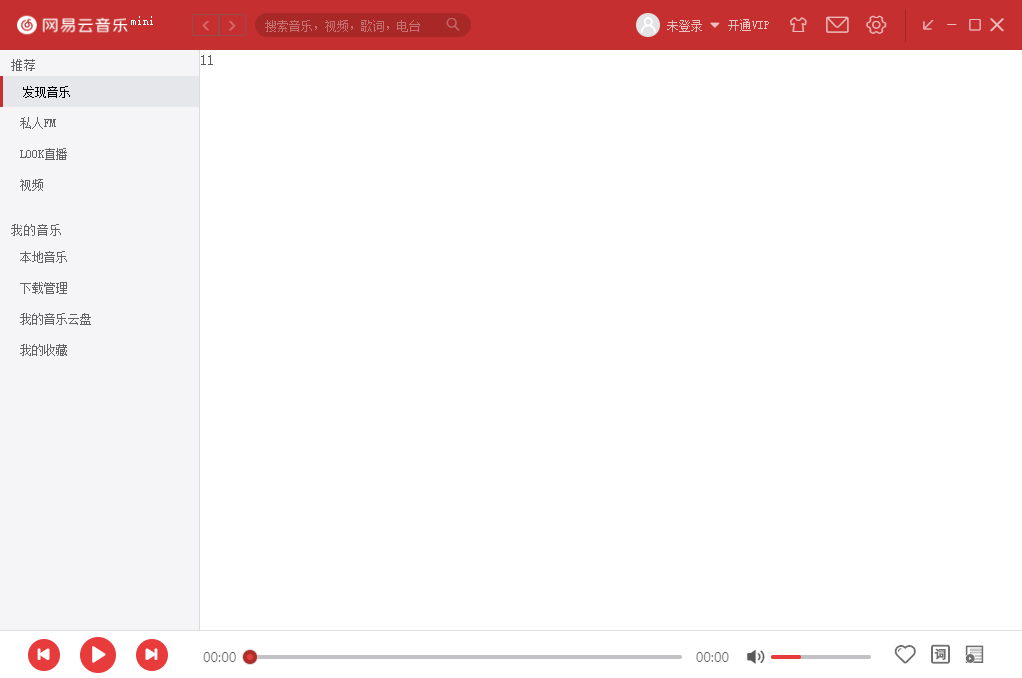
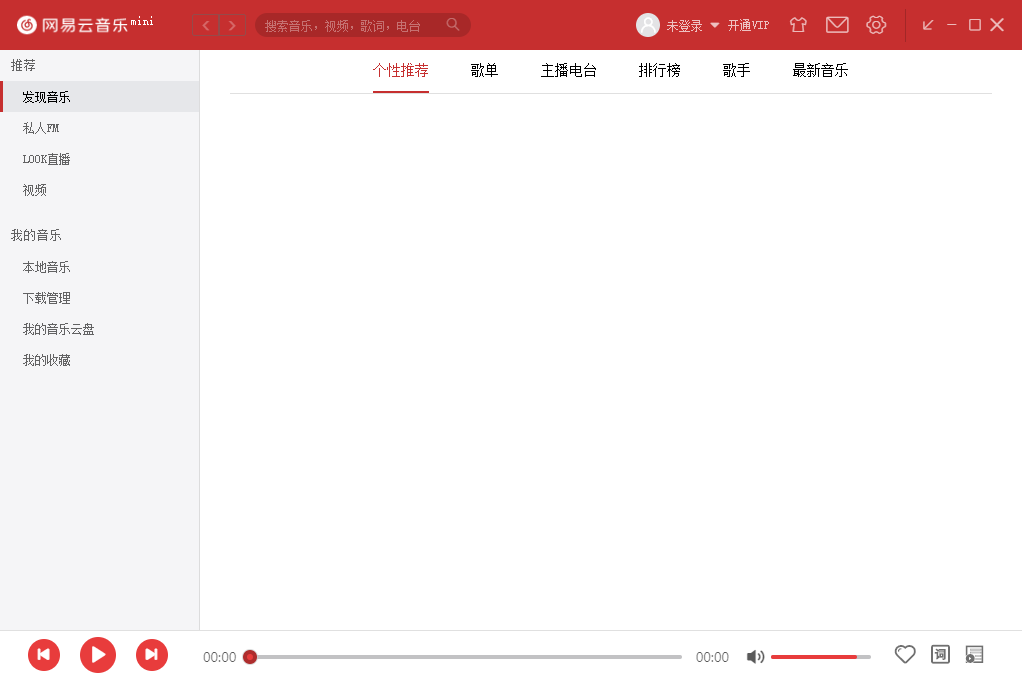
路由添加

diff --git a/src/utils/utils.ts b/src/utils/utils.ts
@@ -4,7 +4,7 @@ import electron from './electron'
  * 拖拽函数
  * @param el {HTMLElement | string}
  */
-export function makeDraggable(el: HTMLElement | string) {
+export function __Dragable(el: HTMLElement | string): void {
   if (typeof el === 'string') {
     el = document.querySelector(el) as HTMLElement
   }
@@ -13,35 +13,39 @@ export function makeDraggable(el: HTMLElement | string) {
     if (drag.supported) {
       drag(el)
     } else {
-      makeDraggableFallback(el)
+      doDraggableFallback(el)
     }
   } catch (ex) {
-    makeDraggableFallback(el)
+    doDraggableFallback(el)
   }
-}
 
-function makeDraggableFallback(el: HTMLElement) {
-  // 方案二
-  let dragging = false
-  let mouseX = 0
-  let mouseY = 0
-  el.addEventListener('mousedown', e => {
-    dragging = true
-    const { pageX, pageY } = e
-    mouseX = pageX
-    mouseY = pageY
-  })
-  window.addEventListener('mouseup', () => {
-    dragging = false
-  })
-  window.addEventListener('mousemove', (e: MouseEvent) => {
-    if (dragging) {
+  /**
+   * 拖拽辅助函数
+   * @param el {HTMLElement} HTML节点
+   */
+  function doDraggableFallback(el: HTMLElement): void {
+    // 方案二
+    let dragging = false
+    let mouseX = 0
+    let mouseY = 0
+    el.addEventListener('mousedown', e => {
+      dragging = true
       const { pageX, pageY } = e
-      const win = electron.remote.getCurrentWindow()
-      const pos = win.getPosition()
-      pos[0] = pos[0] + pageX - mouseX
-      pos[1] = pos[1] + pageY - mouseY
-      win.setPosition(pos[0], pos[1], true)
-    }
-  })
+      mouseX = pageX
+      mouseY = pageY
+    })
+    window.addEventListener('mouseup', () => {
+      dragging = false
+    })
+    window.addEventListener('mousemove', (e: MouseEvent) => {
+      if (dragging) {
+        const { pageX, pageY } = e
+        const win = electron.remote.getCurrentWindow()
+        const pos = win.getPosition()
+        pos[0] = pos[0] + pageX - mouseX
+        pos[1] = pos[1] + pageY - mouseY
+        win.setPosition(pos[0], pos[1], true)
+      }
+    })
+  }
 }

diff --git a/src/layouts/main.tsx b/src/layouts/main.tsx
@@ -1,12 +1,30 @@
 import React from 'react'
 import Aside from './aside'
+import { HashRouter, Route, Switch, Redirect } from 'react-router-dom'
+import routes from '../router'
 
-const Main: React.FC<any> = (props: any) => {
+const Main: React.FC<any> = props => {
   return (
     <div className="nets-main">
       <Aside></Aside>
-      <div className="nets-view">11</div>
+      <div className="nets-view">
+        <HashRouter>
+          <Switch>
+            {routes.map(row => {
+              return (
+                <Route
+                  key={row.path}
+                  path={row.path}
+                  component={row.component}
+                ></Route>
+              )
+            })}
+            <Redirect from="/" to="/index"></Redirect>
+          </Switch>
+        </HashRouter>
+      </div>
     </div>
   )
 }
+
 export default Main

diff --git a/src/views/nav/nav.tsx b/src/views/nav/nav.tsx
@@ -1,0 +1,20 @@
+import React from 'react'
+import './nav.scss'
+import navList from '../../asserts/static/nav.json'
+import { NavLink } from 'react-router-dom'
+
+const Nav: React.FC<any> = props => {
+  return (
+    <div className="nets-nav">
+      {navList.map((row, index) => {
+        return (
+          <NavLink exact activeClassName="active" key={index} to={row.path}>
+            {row.name}
+          </NavLink>
+        )
+      })}
+    </div>
+  )
+}
+
+export default Nav

diff --git a/src/views/menu/menu.scss b/src/views/menu/menu.scss
@@ -6,10 +6,11 @@
     font-size: 13px;
   }
   .nets-menu-wrapper {
-    margin-bottom: 20px;
+    margin: 5px 0px 20px;
     & > .nets-menu-list {
       cursor: pointer;
       padding: 5px 20px;
+      border-left: 3px solid transparent;
       span {
         font-size: 12px;
       }
@@ -19,7 +20,7 @@
       &.active {
         color: #000;
         background: #e6e7ea;
-        border-left: 3px solid #c62f2f;
+        border-left-color: #c62f2f;
       }
     }
   }

diff --git a/src/views/nav/nav.scss b/src/views/nav/nav.scss
@@ -1,0 +1,22 @@
+.nets-nav {
+  display: flex;
+  align-items: center;
+  -webkit-user-select: none;
+  justify-content: center;
+  height: 44px;
+  margin: 0 30px;
+  border-bottom: 1px solid rgba($color: #ccc, $alpha: 0.6);
+  & a {
+    padding: 10px 0;
+    margin: 0 21px;
+    color: #000;
+    border-bottom: 2px solid transparent;
+    &:hover {
+      color: #c62f2f;
+    }
+    &.active {
+      border-bottom-color: #c62f2f;
+      color: #c62f2f;
+    }
+  }
+}

diff --git a/src/layouts/header.tsx b/src/layouts/header.tsx
@@ -1,5 +1,5 @@
 import React, { useState, useEffect } from 'react'
-import { makeDraggable } from '../utils/utils'
+import { __Dragable } from '../utils/utils'
 import electron from '../utils/electron'
 
 const Header: React.FC<any> = props => {
@@ -29,7 +29,7 @@ const Header: React.FC<any> = props => {
   }
 
   useEffect(() => {
-    makeDraggable('.nets-header')
+    __Dragable('.nets-header')
   }, [])
 
   return (

diff --git a/src/router.ts b/src/router.ts
@@ -1,0 +1,15 @@
+import Loadable from 'react-loadable'
+
+const routes = [
+  {
+    name: 'index',
+    path: '/index',
+    component: Loadable({
+      loader: () =>
+        import(/* webpackChunkName: "Index" */ './views/index/index'),
+      loading: () => null
+    })
+  }
+]
+
+export default routes

diff --git a/src/App.tsx b/src/App.tsx
@@ -5,6 +5,7 @@ import Main from './layouts/main'
 import Footer from './layouts/footer'
 
 const App: React.FC<any> = (props: any) => {
+  console.log(import(/* webpackChunkName: "Index" */ './views/index/index'))
   return (
     <div className="App">
       <Header></Header>

diff --git a/src/layouts/footer.tsx b/src/layouts/footer.tsx
@@ -74,7 +74,6 @@ const Footer: React.FC<any> = props => {
         <p>00:00</p>
         <Slider
           value={process}
-          disabled={process === 0}
           onChange={(val: any) => _onchangeProcess(val)}
           tooltipVisible={false}
         ></Slider>

diff --git a/src/views/index/index.tsx b/src/views/index/index.tsx
@@ -1,0 +1,13 @@
+import React from 'react'
+import Nav from '../nav/nav'
+import './index.scss'
+
+const Index: React.FC<any> = props => {
+  return (
+    <div className="nets-index">
+      <Nav></Nav>
+    </div>
+  )
+}
+
+export default Index

diff --git a/src/components/Loading.tsx b/src/components/Loading.tsx
@@ -1,0 +1,7 @@
+import React from 'react'
+
+const Loading: React.FC<any> = props => {
+  return <div>Loading....</div>
+}
+
+export default Loading

diff --git a/src/views/index/index.scss b/src/views/index/index.scss
@@ -1,0 +1,3 @@
+.nets-index {
+  height: 100%;
+}
